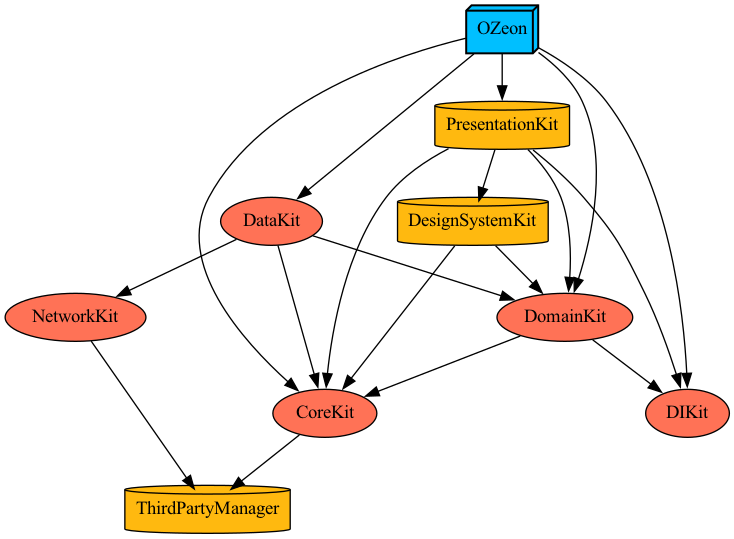
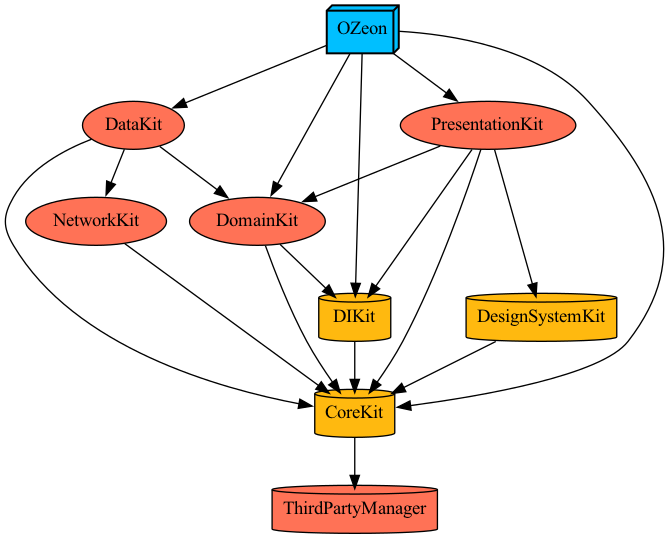
resource: fix tuist dependencies

diff --git a/Projects/OZeon/Project.swift b/Projects/OZeon/Project.swift
@@ -31,7 +31,11 @@ let infoPlist: [String: InfoPlist.Value] = [
     ],
     "LSApplicationQueriesSchemes": ["kakaokompassauth", "kakaolink", "kakao$(KAKAO_APP_KEY)"],
     "KAKAO_REST_KEY": "$(KAKAO_REST_KEY)",
-    "KAKAO_APP_KEY": "$(KAKAO_APP_KEY)"
+    "KAKAO_APP_KEY": "$(KAKAO_APP_KEY)",
+    "OTHER_LDFLAGS": "-ObjC",
+    "HEADER_SEARCH_PATHS": """
+$(inherited) $(SRCROOT)/Tuist/Dependencies/SwiftPackageManager/.build/checkouts/GoogleSignIn-iOS/GoogleSignIn/Sources/Public $(SRCROOT)/Tuist/Dependencies/SwiftPackageManager/.build/checkouts/AppAuth-iOS/Source/AppAuth $(SRCROOT)/Tuist/Dependencies/SwiftPackageManager/.build/checkouts/AppAuth-iOS/Source/AppAuthCore $(SRCROOT)/Tuist/Dependencies/SwiftPackageManager/.build/checkouts/gtm-session-fetcher/Sources/Core/Public $(SRCROOT)/Tuist/Dependencies/SwiftPackageManager/.build/checkouts/GoogleSignIn-iOS/GoogleSignIn/Sources/../../ $(SRCROOT)/Tuist/Dependencies/SwiftPackageManager/.build/checkouts/GTMAppAuth/GTMAppAuth/Sources/Public/GTMAppAuth")
+"""
 ]
 
 // MARK: - App

diff --git a/Tuist/ProjectDescriptionHelpers/Project.swift b/Tuist/ProjectDescriptionHelpers/Project.swift
@@ -23,10 +23,12 @@ public struct ProjectFactory {
         
         let name: String
         let organizationName: String
+        let packages: [Package]
         
-        public init(name: String, organizationName: String) {
+        public init(name: String, organizationName: String, packages: [Package] = []) {
             self.name = name
             self.organizationName = organizationName
+            self.packages = packages
         }
     }
     
@@ -41,6 +43,7 @@ public struct ProjectFactory {
         return Project(
             name: payload.name,
             organizationName: payload.organizationName,
+            packages: payload.packages,
             settings: .settings(
                 configurations: [
                     .debug(name: "Debug", xcconfig: .relativeToRoot("BuildConfigurations/Debug.xcconfig")),

diff --git a/Tuist/Dependencies.swift b/Tuist/Dependencies.swift
@@ -9,7 +9,8 @@ let spm = SwiftPackageManagerDependencies([
     .remote(url: "https://github.com/Alamofire/Alamofire", requirement: .upToNextMajor(from: "5.7.0")),
     .remote(url: "https://github.com/kakao/kakao-ios-sdk", requirement: .upToNextMinor(from: "2.18.0")),
     .remote(url: "https://github.com/kishikawakatsumi/KeychainAccess", requirement: .upToNextMajor(from: "4.2.2")),
-    .remote(url: "https://github.com/Kitura/Swift-JWT", requirement: .upToNextMajor(from: "4.0.0"))
+    .remote(url: "https://github.com/Kitura/Swift-JWT", requirement: .upToNextMajor(from: "4.0.0")),
+    .remote(url: "https://github.com/firebase/firebase-ios-sdk", requirement: .upToNextMajor(from: "10.0.0"))
 ])
 
 let dependencies = Dependencies(

diff --git a/Tuist/ProjectDescriptionHelpers/Framework.swift b/Tuist/ProjectDescriptionHelpers/Framework.swift
@@ -50,6 +50,7 @@ public struct FrameworkFactory {
     }
     
     public func build(payload: Payload) -> [Target] {
+        let setting: SettingsDictionary = ["OTHER_LDFLAGS" : "$(inherited) -ObjC -all_load"]
         
         let sourceTarget = Target(
             name: payload.name,
@@ -61,7 +62,8 @@ public struct FrameworkFactory {
             sources: ["Sources/**"],
             resources: ["Resources/**"],
             scripts: [.SwiftLintString],
-            dependencies: self.dependency.frameworkDependencies
+            dependencies: self.dependency.frameworkDependencies,
+            settings: .settings(base: setting, defaultSettings: .recommended)
         )
         
         let testTarget = Target(

diff --git a/Projects/OZeon/Sources/OZeonApp.swift b/Projects/OZeon/Sources/OZeonApp.swift
@@ -1,4 +1,5 @@
 import ComposableArchitecture
+import Firebase
 import KakaoSDKAuth
 import KakaoSDKCommon
 
@@ -8,6 +9,7 @@ import SwiftUI
 struct OZeonApp: App {
     init() {
         initializeKakao()
+        initializeFirebase()
         registerDependencies()
     }
     
@@ -29,6 +31,10 @@ struct OZeonApp: App {
             return
         }
         KakaoSDK.initSDK(appKey: kakaoAppKey)
+    }
+    
+    private func initializeFirebase() {
+        FirebaseApp.configure()
     }
     
     private func registerDependencies() {

diff --git a/Projects/Modules/ThirdPartyManager/Project.swift b/Projects/Modules/ThirdPartyManager/Project.swift
@@ -22,7 +22,8 @@ let frameworkTargets: [Target] = FrameworkFactory(
             .SPM.KakaoSDKUser,
             .SPM.KakaoSDKCommon,
             .SPM.KeychainAccess,
-            .SPM.SwiftJWT
+            .SPM.SwiftJWT,
+            .SPM.FirebaseStorage
         ],
         unitTestsDependencies: []
     )
@@ -30,7 +31,7 @@ let frameworkTargets: [Target] = FrameworkFactory(
     payload: .init(
         name: frameworkName,
         platform: .iOS,
-        product: .framework
+        product: .staticFramework
     )
 )
 

diff --git a/Projects/Modules/NetworkKit/Project.swift b/Projects/Modules/NetworkKit/Project.swift
@@ -13,14 +13,14 @@ let frameworkName: String = "NetworkKit"
 
 let frameworkTargets: [Target] = FrameworkFactory(
     dependency: .init(
-        frameworkDependencies: [Dep.Project.ThirdPartyManager],
+        frameworkDependencies: [Dep.Project.CoreKit],
         unitTestsDependencies: []
     )
 ).build(
     payload: .init(
         name: frameworkName,
         platform: .iOS,
-        product: .framework,
+        product: .staticLibrary,
         infoPlist: ["TEST_FACT_API_KEY": "$(TEST_FACT_API_KEY)"]
     )
 )

diff --git a/Projects/Modules/PresentationKit/Sources/Features/Login/Login.swift b/Projects/Modules/PresentationKit/Sources/Features/Login/Login.swift
@@ -8,6 +8,7 @@
 
 import Alamofire
 import ComposableArchitecture
+import DomainKit
 import KakaoSDKAuth
 import KakaoSDKCommon
 import KakaoSDKUser
@@ -179,7 +180,7 @@ public struct Login: Reducer {
     private func loginWithSocialToken(
         _ accessToken: String,
         _ idToken: String,
-        socialType: SocialType
+        socialType: DomainKit.SocialType
     ) -> Effect<Login.Action> {
         return .run { send async in
             let (response, error) = await authUseCase.loginWithSocialToken(

diff --git a/Tuist/ProjectDescriptionHelpers/SPM.swift b/Tuist/ProjectDescriptionHelpers/SPM.swift
@@ -22,6 +22,9 @@ public extension TargetDependency.SPM {
     static let KeychainAccess = Self.external("KeychainAccess")
     static let SwiftJWT = Self.external("SwiftJWT")
     
+    // Firebase
+   static let FirebaseStorage = Self.external("FirebaseStorage")
+    
     private static func external(_ name: String) -> TargetDependency {
         return TargetDependency.external(name: name)
     }

diff --git a/Projects/Modules/DesignSystemKit/Sources/Buttons/SNSLoginButton/SNSLoginButton.swift b/Projects/Modules/DesignSystemKit/Sources/Buttons/SNSLoginButton/SNSLoginButton.swift
@@ -6,8 +6,6 @@
 //  Copyright © 2023 kr.ddd.ozeon. All rights reserved.
 //
 
-import DomainKit
-
 import SwiftUI
 
 fileprivate enum Constants {
@@ -19,7 +17,10 @@ fileprivate enum Constants {
     }
 }
 
-extension SocialType {    
+public enum SocialType {
+    case KAKAO
+    case APPLE
+    
     var buttonString: String {
         switch self {
         case .KAKAO:

diff --git a/Projects/Modules/DesignSystemKit/Project.swift b/Projects/Modules/DesignSystemKit/Project.swift
@@ -13,10 +13,7 @@ let frameworkName: String = "DesignSystemKit"
 
 let frameworkTargets: [Target] = FrameworkFactory(
     dependency: .init(
-        frameworkDependencies: [
-            Dep.Project.CoreKit,
-            Dep.Project.DomainKit
-        ],
+        frameworkDependencies: [Dep.Project.CoreKit],
         unitTestsDependencies: []
     )
 ).build(

diff --git a/Projects/Modules/DIKit/Project.swift b/Projects/Modules/DIKit/Project.swift
@@ -6,7 +6,7 @@ let frameworkName: String = "DIKit"
 
 let frameworkTargets: [Target] = FrameworkFactory(
     dependency: .init(
-        frameworkDependencies: [.SPM.Swinject],
+        frameworkDependencies: [Dep.Project.CoreKit],
         unitTestsDependencies: []
     )
 ).build(
